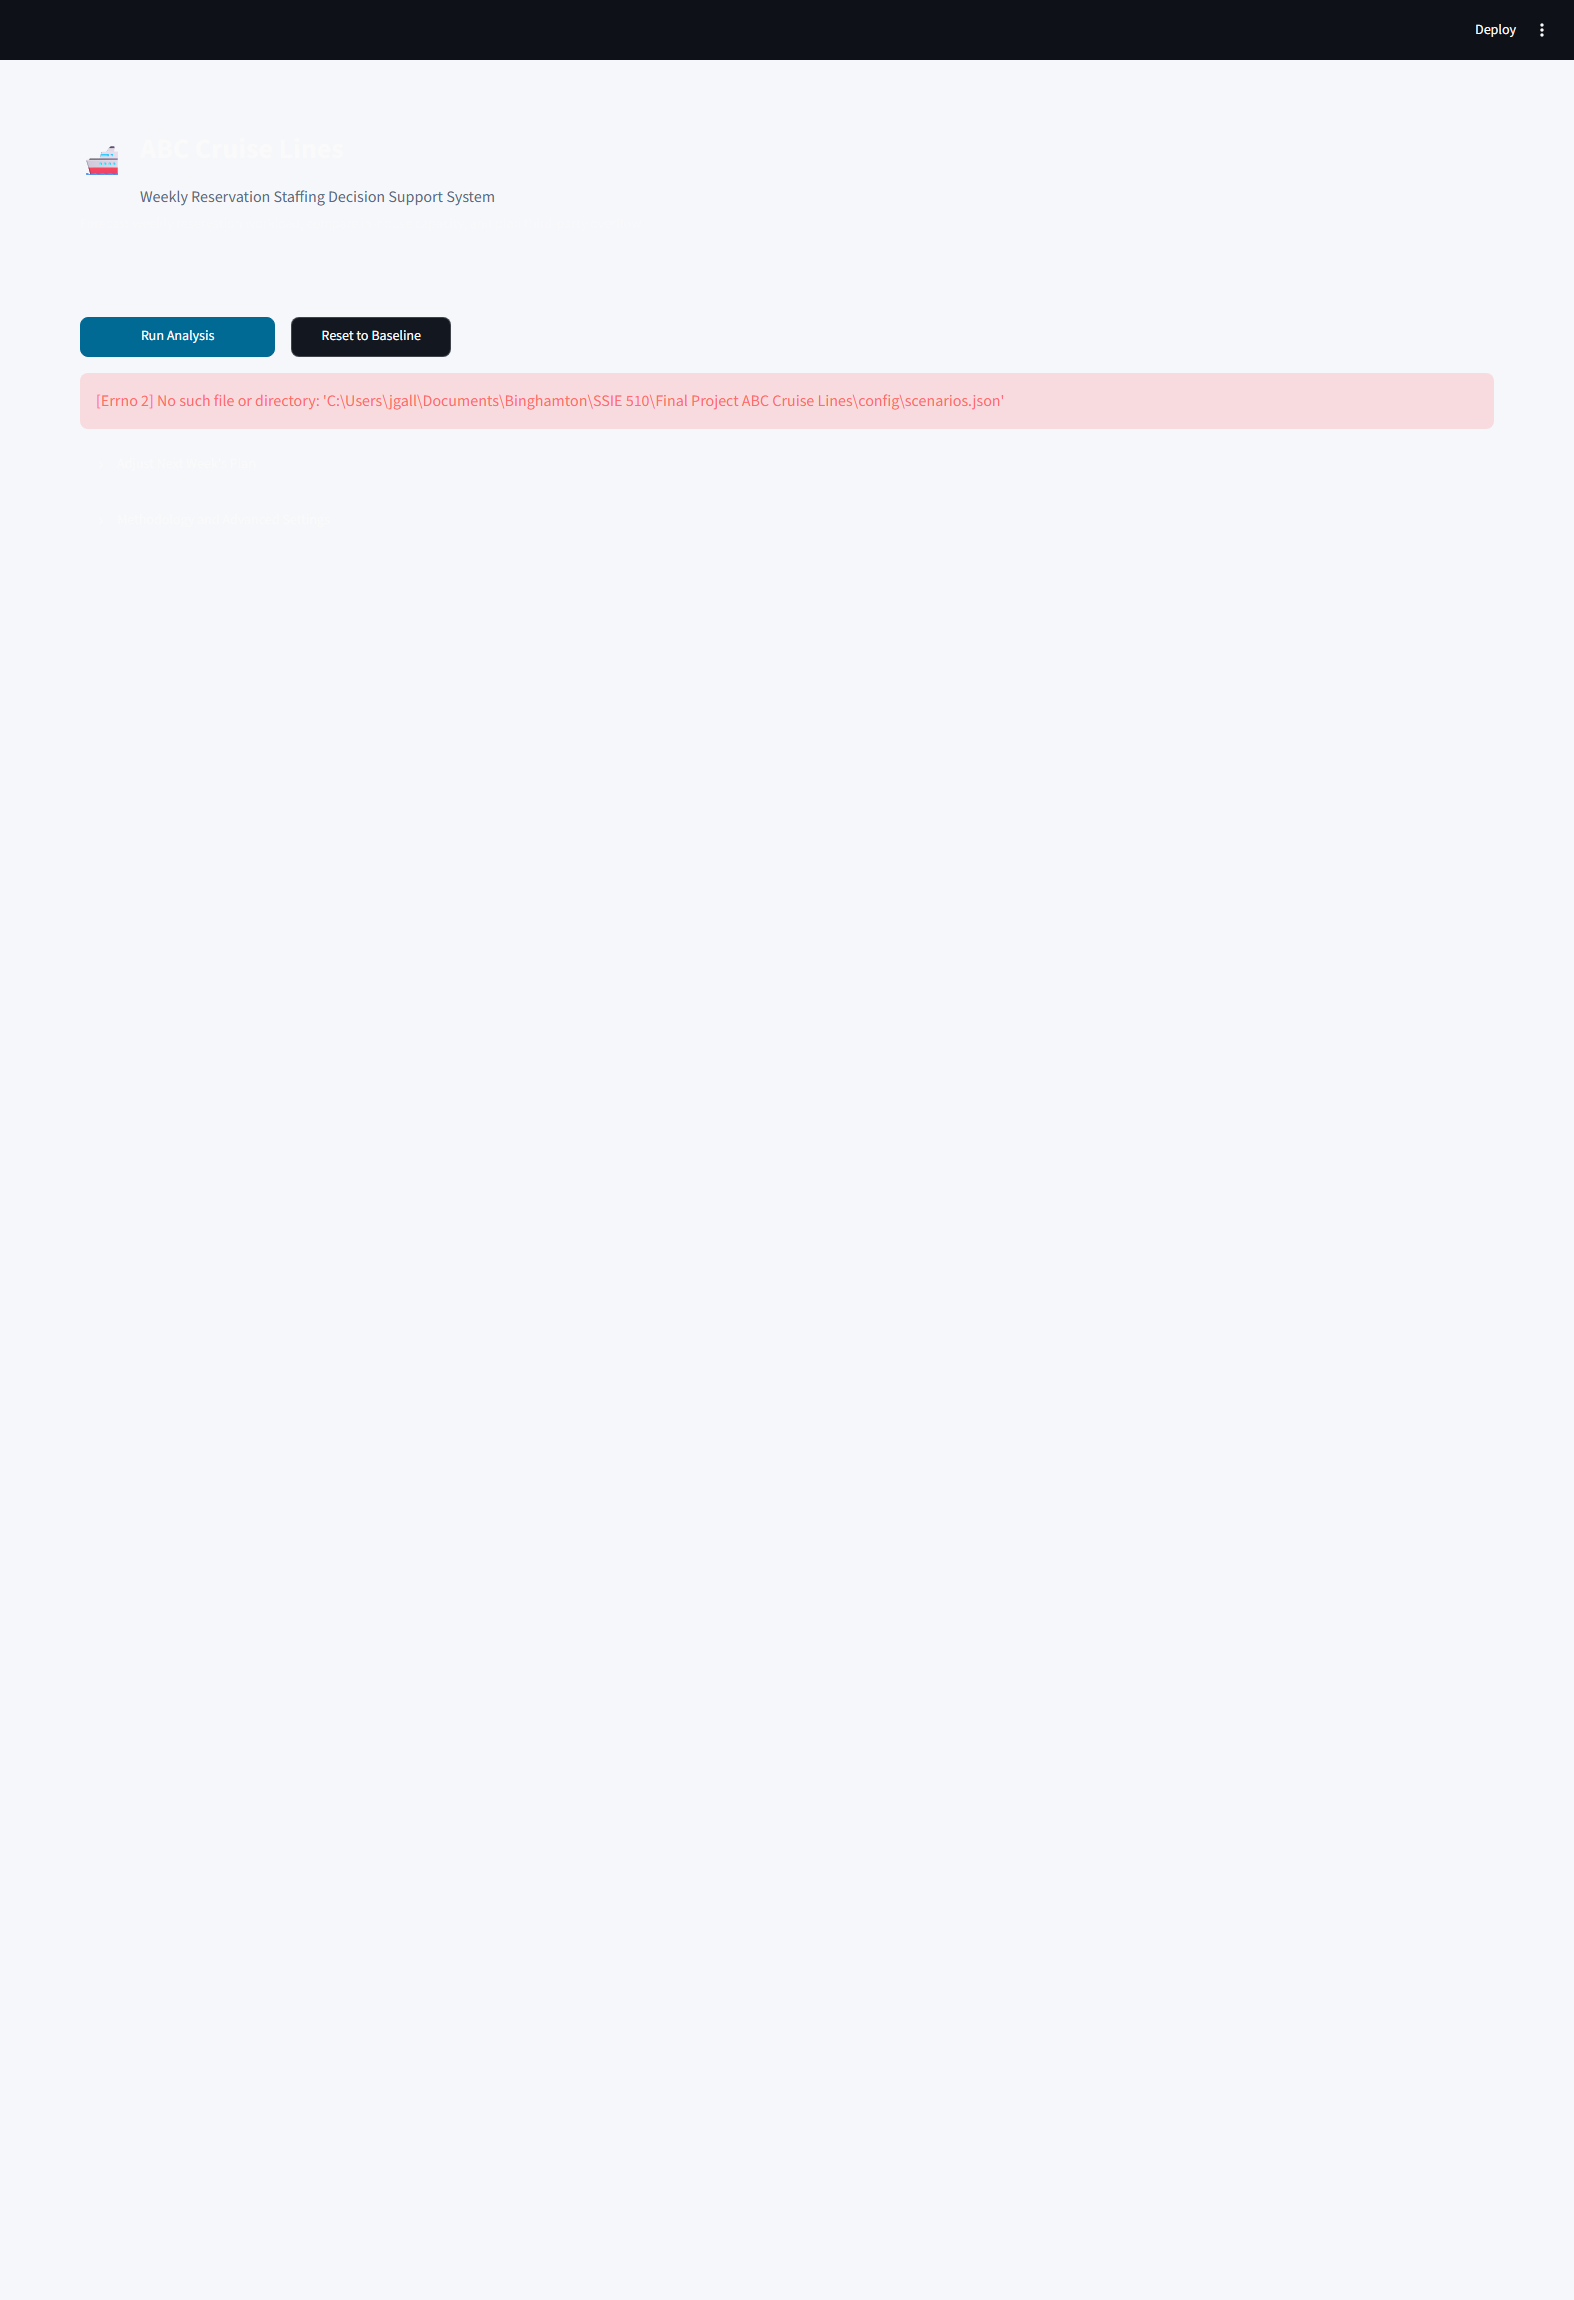
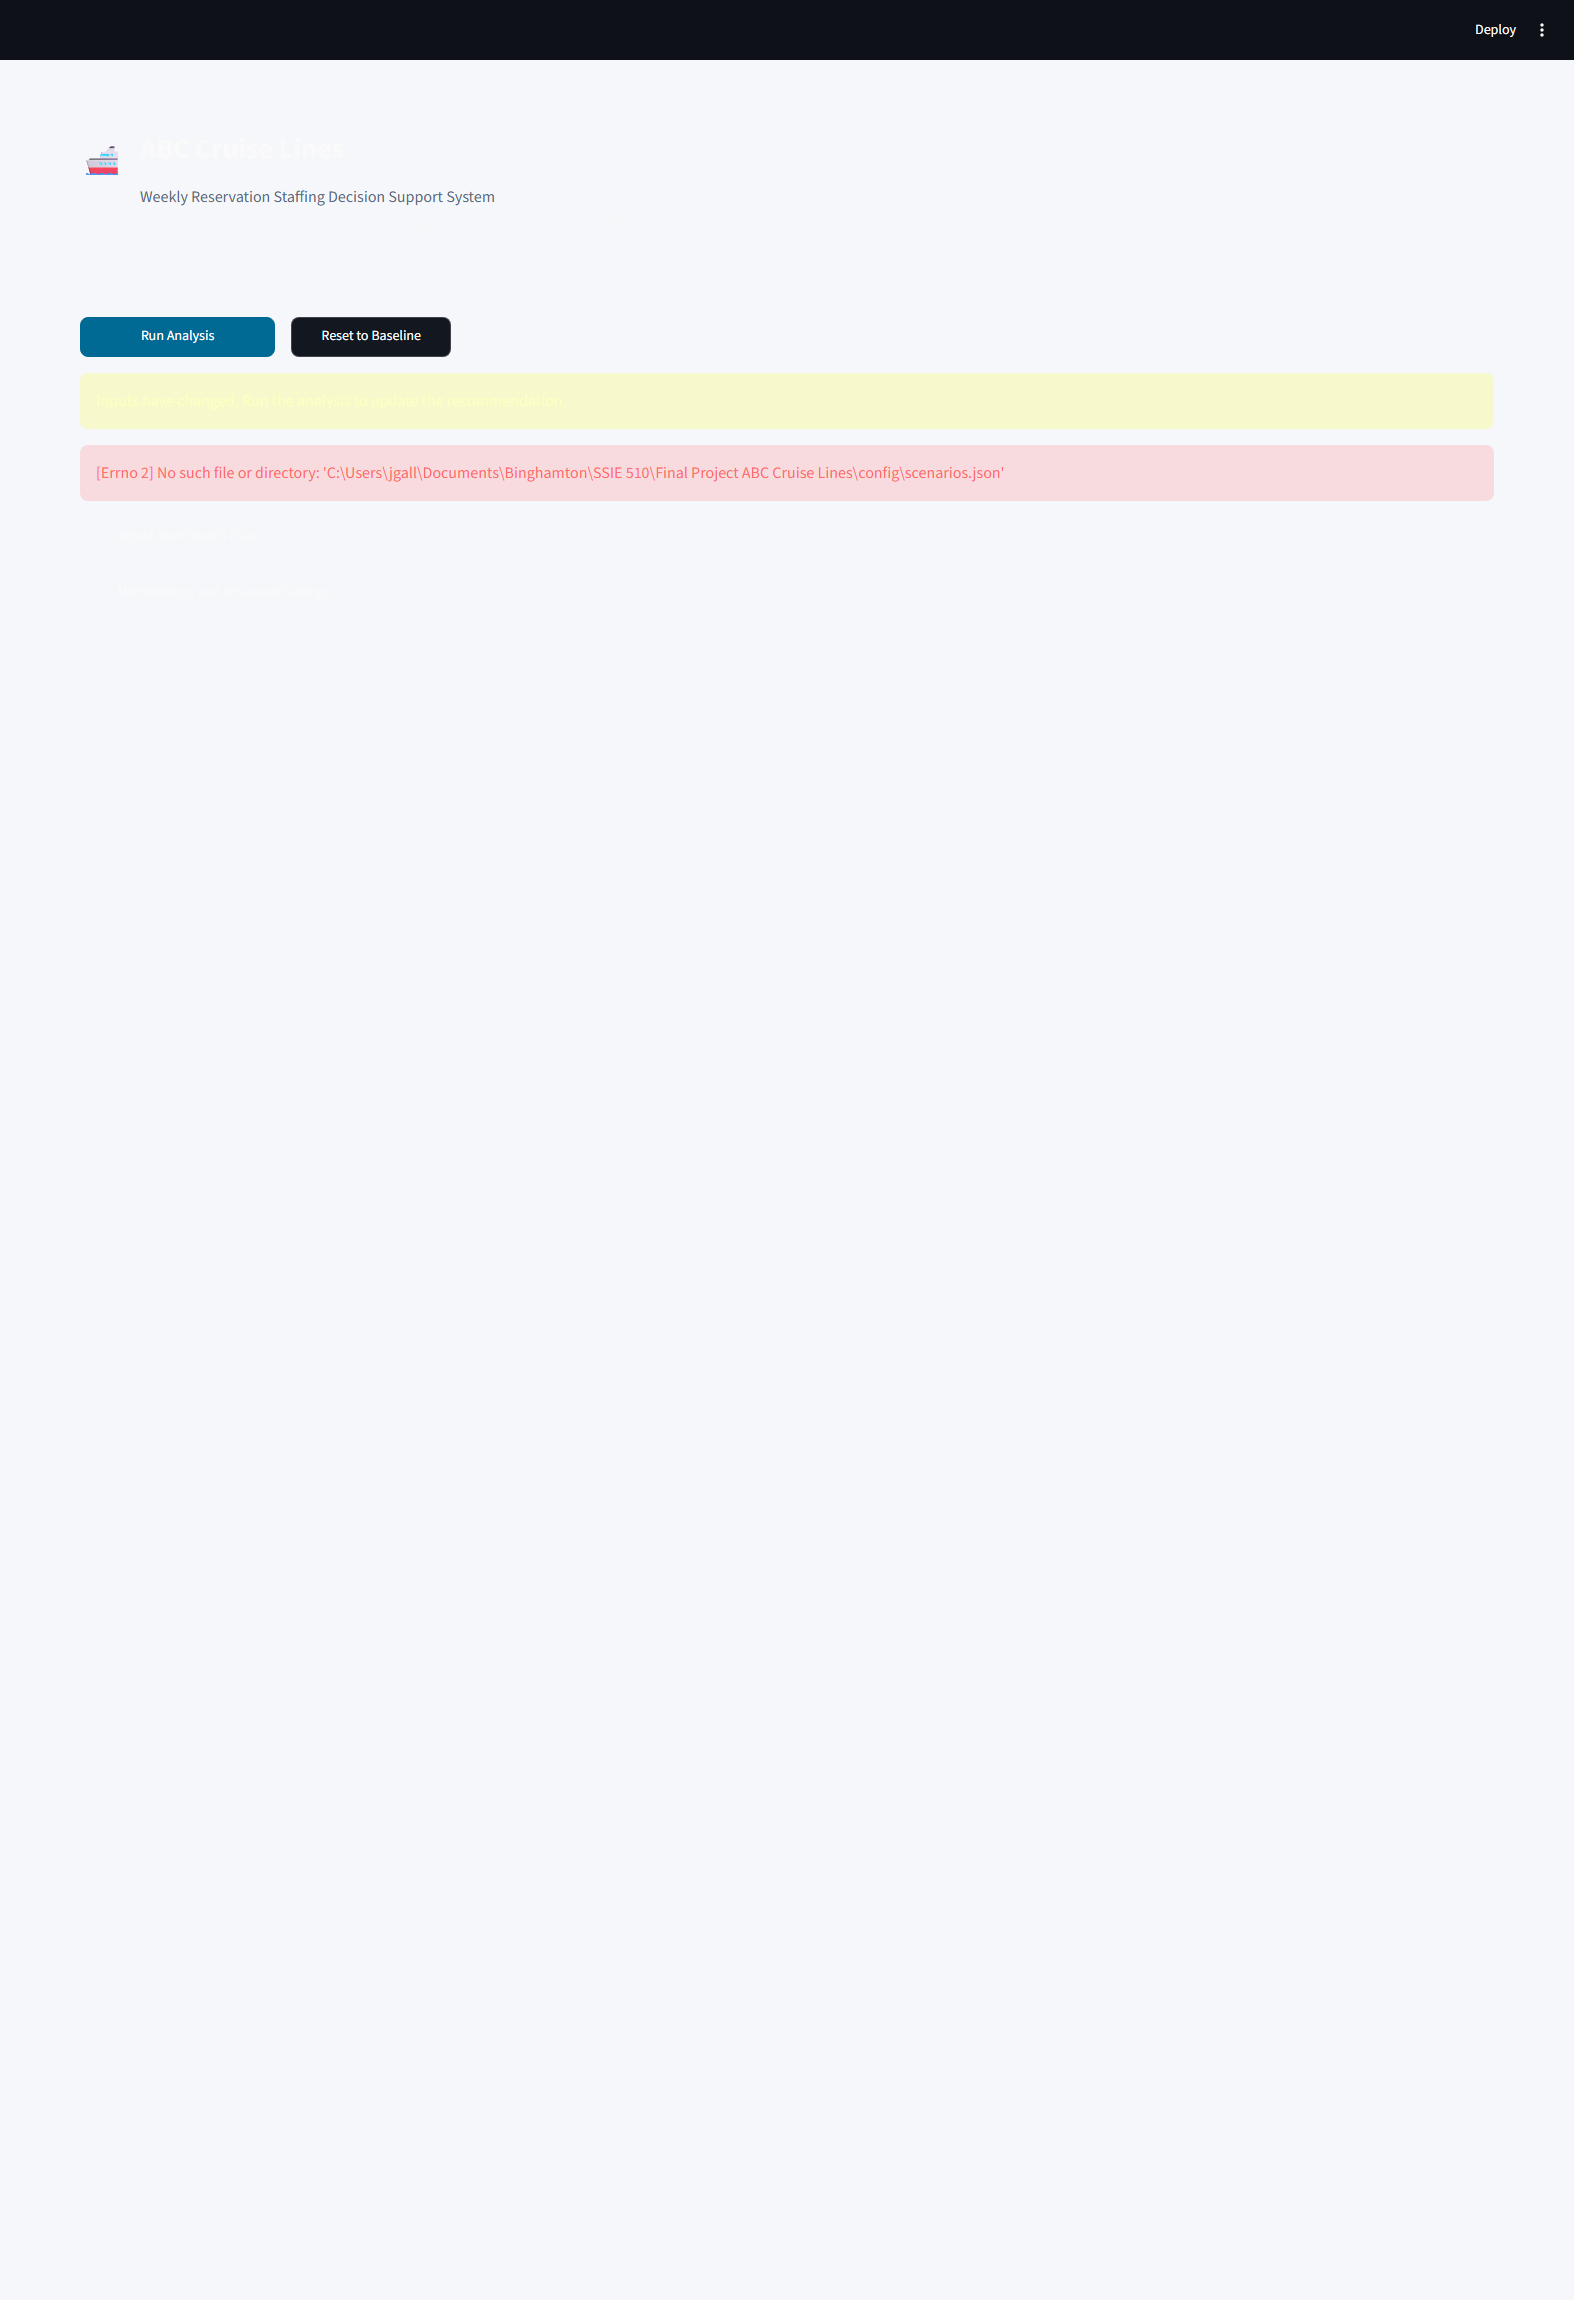
checkpoint current project state

Changed region(s): [[0.0311, 0.1543, 0.9651, 0.2161]]

diff --git a/scripts/inspect_streamlit_dom.py b/scripts/inspect_streamlit_dom.py
@@ -1,0 +1,60 @@
+"""Inspect current DOM state and console logs via CDP."""
+import json
+import sys
+import urllib.request
+import websocket
+
+
+def main():
+    port = int(sys.argv[1]) if len(sys.argv) > 1 else 9333
+    with urllib.request.urlopen(f"http://127.0.0.1:{port}/json/list", timeout=5) as r:
+        targets = json.loads(r.read())
+    page = next((t for t in targets if t.get("type") == "page"), None)
+    ws = websocket.create_connection(page["webSocketDebuggerUrl"], timeout=10)
+    msg_id = 0
+
+    def send(method, params=None):
+        nonlocal msg_id
+        msg_id += 1
+        ws.send(json.dumps({"id": msg_id, "method": method, "params": params or {}}))
+        while True:
+            msg = json.loads(ws.recv())
+            if msg.get("id") == msg_id:
+                return msg.get("result", {})
+
+    send("Runtime.enable")
+    send("Log.enable")
+
+    # Dump console messages accumulated
+    # Check for spinner, error, status elements
+    expr = (
+        "(() => {"
+        "  const all = Array.from(document.querySelectorAll('*'));"
+        "  const spinners = all.filter(e => /stSpinner|spinner|StatusWidget|running/i.test(e.className || '') || /stSpinner/i.test(e.getAttribute('data-testid') || ''));"
+        "  const errors = all.filter(e => /stException|stError|error/i.test(e.className || '') || /stException/i.test(e.getAttribute('data-testid') || ''));"
+        "  const status = Array.from(document.querySelectorAll('[data-testid=\"stStatusWidget\"]'));"
+        "  const buttons = Array.from(document.querySelectorAll('button')).map(b => ({text: b.innerText, disabled: b.disabled, kind: b.getAttribute('kind')}));"
+        "  const bodyText = document.body.innerText;"
+        "  const visibleBlocks = Array.from(document.querySelectorAll('[data-testid=\"stElement\"],[data-testid=\"stMarkdownContainer\"]')).length;"
+        "  return JSON.stringify({"
+        "    bodyLen: bodyText.length,"
+        "    spinners: spinners.length,"
+        "    spinnerClasses: spinners.slice(0,3).map(e => e.className),"
+        "    errors: errors.length,"
+        "    errorText: errors.slice(0,3).map(e => e.innerText.slice(0,300)),"
+        "    statusWidgets: status.length,"
+        "    statusText: status.map(e => e.innerText),"
+        "    buttons: buttons.slice(0,10),"
+        "    visibleBlocks,"
+        "    bodySample: bodyText.slice(0, 1000)"
+        "  });"
+        "})()"
+    )
+    result = send("Runtime.evaluate", {"expression": expr, "returnByValue": True})
+    val = result.get("result", {}).get("value", "{}")
+    print(val[:4000].encode("ascii", "replace").decode("ascii"))
+    ws.close()
+
+
+if __name__ == "__main__":
+    main()

diff --git a/tests/test_legacy_compatibility.py b/tests/test_legacy_compatibility.py
@@ -1,0 +1,26 @@
+"""Compatibility tests for artifacts older deployments may still request."""
+
+from __future__ import annotations
+
+import json
+from pathlib import Path
+import unittest
+
+
+class LegacyCompatibilityTests(unittest.TestCase):
+    def test_legacy_scenarios_file_exists_with_expected_shape(self) -> None:
+        project_root = Path(__file__).resolve().parents[1]
+        scenarios_path = project_root / "config" / "scenarios.json"
+
+        self.assertTrue(scenarios_path.exists())
+        payload = json.loads(scenarios_path.read_text(encoding="utf-8"))
+
+        self.assertEqual(payload["schema_version"], "1.0")
+        self.assertEqual(
+            [scenario["scenario_name"] for scenario in payload["scenarios"]],
+            ["Low Demand", "Expected Demand", "High Demand"],
+        )
+
+
+if __name__ == "__main__":
+    unittest.main()